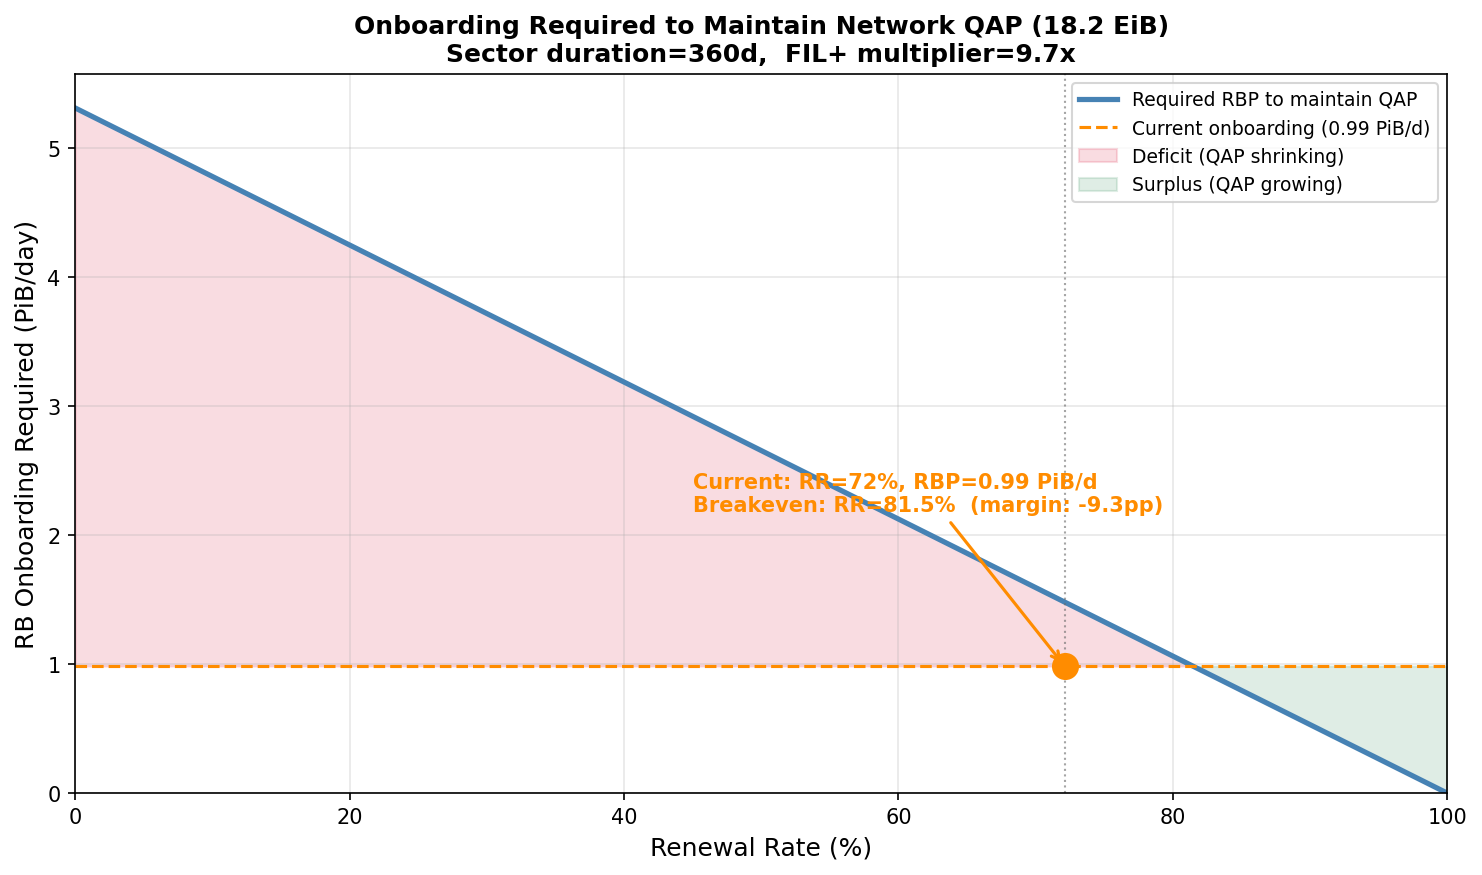
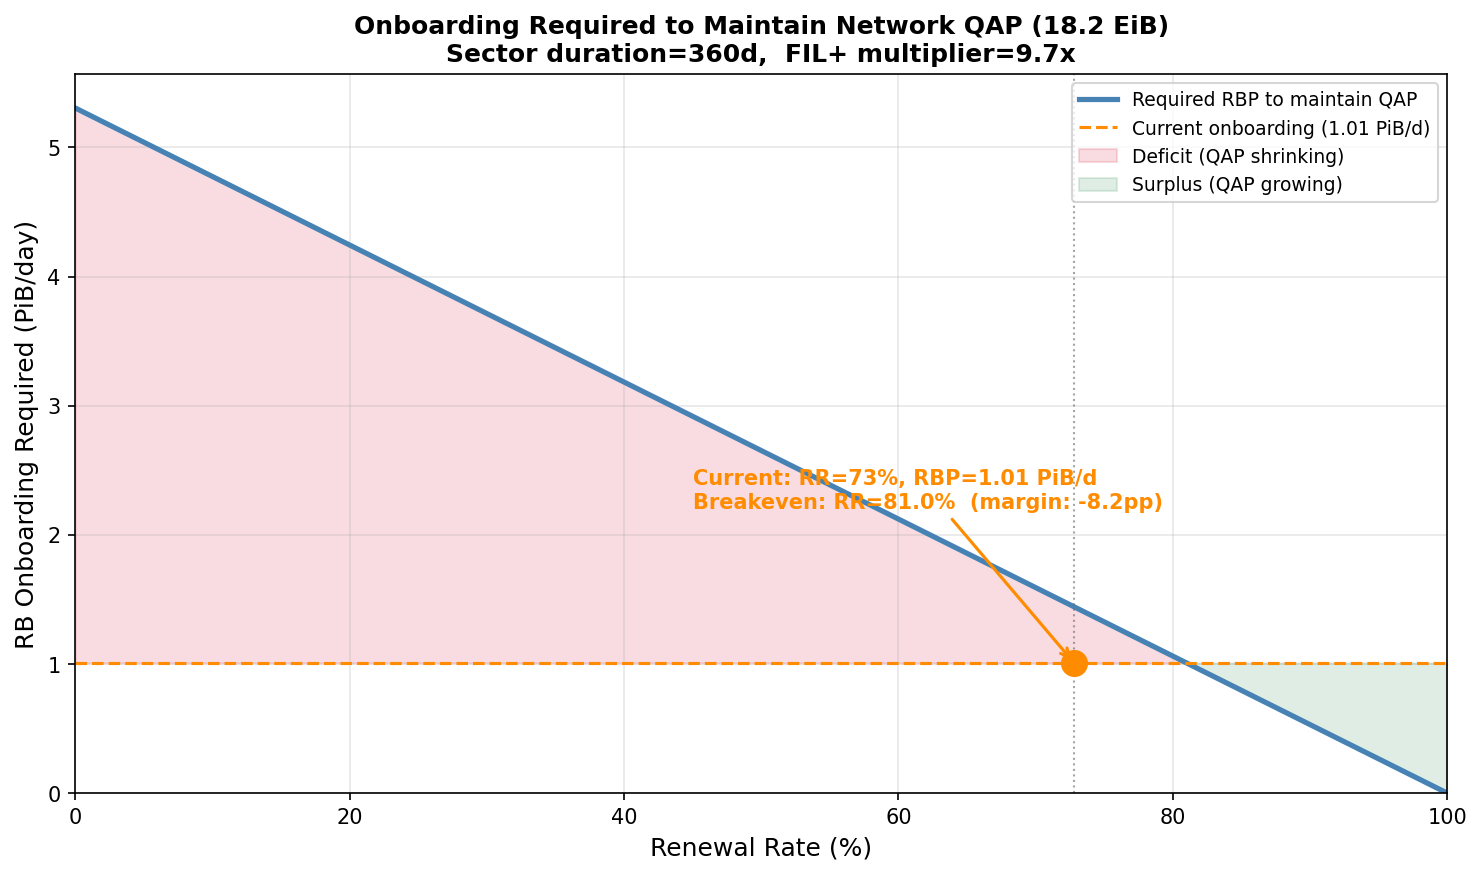
Use declining RR scenarios with concave curves and document optimistic bias
- Status Quo: concave RR decline 73%→55% (mild erosion)
- Decline: concave RR decline 73%→36% (aggressive, front-loaded)
- Both scenarios now show locked FIL declining from forecast start
- Added appendix explanation of renewal uplift math and why flat RR
  contradicts on-chain reality in current network regime
- Updated all report numbers: SQ locked 71.6M, Decline 60.0M at 2Y
- Added takeaway #7: projections are likely still optimistic

diff --git a/locked_test/forecast.py b/locked_test/forecast.py
@@ -124,29 +124,44 @@ fpr_vec = jnp.ones(SIM_FCST) * fpr_val
 # ════════════════════════════════════════════════════════════════════
 # SCENARIOS
 # ════════════════════════════════════════════════════════════════════
-# ── Decline scenario: RBP decays exponentially + RR declines linearly ──
-# Combines declining new entrants with declining renewals
-rbp_decay_rate = 3.0  # 3x reduction per year
-rr_end_frac    = 0.50 # RR drops to 50% of current
+# Both scenarios share declining RBP (observed 3x/yr trend).
+# Both use concave (sqrt) RR decline — front-loaded, marginal SPs exit first.
+# Status Quo = mild RR erosion (to 75%); Decline = aggressive RR erosion (to 50%).
+rbp_decay_rate  = 3.0  # 3x reduction per year (observed historical trend)
+sq_rr_end_frac  = 0.75 # Status Quo: RR declines to 75% of current
+dc_rr_end_frac  = 0.50 # Decline: RR drops to 50% of current
 
 days_fc = jnp.arange(SIM_FCST)
 rbp_decline_pib = rbp_pib_day * (1.0 / rbp_decay_rate) ** (days_fc / 365.0)
-rr_ramp = jnp.linspace(rr_val, rr_val * rr_end_frac, FORECAST_DAYS)
-rr_decline = jnp.concatenate([rr_ramp, jnp.ones(SIM_EXTRA) * rr_ramp[-1]])
+t_norm = jnp.linspace(0, 1, FORECAST_DAYS)
+
+# Status Quo: mild concave decline
+rr_sq = rr_val * (1.0 - (1.0 - sq_rr_end_frac) * jnp.sqrt(t_norm))
+rr_status_quo = jnp.concatenate([rr_sq, jnp.ones(SIM_EXTRA) * rr_sq[-1]])
+
+# Decline: aggressive concave decline
+rr_dc = rr_val * (1.0 - (1.0 - dc_rr_end_frac) * jnp.sqrt(t_norm))
+rr_decline = jnp.concatenate([rr_dc, jnp.ones(SIM_EXTRA) * rr_dc[-1]])
 
 rbp_1y = float(rbp_decline_pib[364])
 rbp_2y = float(rbp_decline_pib[min(729, SIM_FCST-1)])
-print(f"\nDecline scenario:")
-print(f"  RBP: {rbp_pib_day:.2f} -> {rbp_1y:.2f} (1Y) -> {rbp_2y:.2f} (2Y) PiB/d  ({rbp_decay_rate:.0f}x/yr exponential decay)")
-print(f"  RR:  {rr_val*100:.0f}% -> {rr_val*rr_end_frac*100:.0f}% (linear over {FORECAST_DAYS}d)")
+sq_rr_1y = float(rr_sq[364])
+sq_rr_2y = float(rr_sq[-1])
+dc_rr_1y = float(rr_dc[364])
+dc_rr_2y = float(rr_dc[-1])
+print(f"\nShared RBP trajectory ({rbp_decay_rate:.0f}x/yr exponential decay):")
+print(f"  RBP: {rbp_pib_day:.2f} -> {rbp_1y:.2f} (1Y) -> {rbp_2y:.2f} (2Y) PiB/d")
+print(f"\nScenarios:")
+print(f"  Status Quo: RR {rr_val*100:.0f}% -> {sq_rr_1y*100:.0f}% (1Y) -> {sq_rr_2y*100:.0f}% (2Y) [concave, mild]")
+print(f"  Decline:    RR {rr_val*100:.0f}% -> {dc_rr_1y*100:.0f}% (1Y) -> {dc_rr_2y*100:.0f}% (2Y) [concave, aggressive]")
 
 SCENARIOS = [
     {
         "name": "Status Quo",
         "color": "steelblue",
         "linestyle": "--",
-        "rbp_pib": jnp.ones(SIM_FCST) * rbp_pib_day,
-        "rr": jnp.ones(SIM_FCST) * rr_val,
+        "rbp_pib": rbp_decline_pib,
+        "rr": rr_status_quo,
     },
     {
         "name": "Decline",

diff --git a/locked_test/filecoin_supply_forecast.md b/locked_test/filecoin_supply_forecast.md
@@ -13,27 +13,26 @@ header-includes:
 # Executive Summary
 
 This document presents a two-year forward simulation of the Filecoin network
-under two scenarios that vary storage provider (SP) onboarding and renewal
-behavior.
+under two scenarios that reflect the current trajectory of declining storage
+provider (SP) onboarding.
 
-The central finding is that **even holding current conditions flat, locked FIL
-and L/CS decline over the forecast horizon**. The Decline scenario, which
-extrapolates recent trends in onboarding and renewal behavior, projects a more
-significant contraction: locked FIL falls 39% while circulating supply grows
-15%, compressing L/CS from 0.122 to 0.065. **Based on the trajectory of the
-past year, the Decline scenario is the more realistic projection.**
+The central finding is that **locked FIL declines under both scenarios**, with
+the severity depending on whether renewal rates hold steady or deteriorate.
+Circulating supply approaches 1 billion FIL in both cases. **Based on the
+trajectory of the past year, the Decline scenario is the more realistic
+projection.**
 
 \bigskip
 
 | Metric | Current | Status Quo | Decline |
 |:-------|--------:|---------:|--------:|
-| Network Locked (M FIL) | 101.8 | 99.4 | 62.5 |
-| Circulating Supply (M FIL) | 836.6 | 924.5 | 960.0 |
-| Locked / Circ Supply | 0.122 | 0.108 | 0.065 |
-| Pledge per 32 GiB Sector (FIL) | 0.172 | 0.162 | 0.360 |
-| 1Y Forward FoFR (%) | 22.7 | 21.9 | 50.2 |
+| Network Locked (M FIL) | 101.7 | 71.6 | 60.0 |
+| Circulating Supply (M FIL) | 836.9 | 951.2 | 962.1 |
+| Locked / Circ Supply | 0.122 | 0.075 | 0.062 |
+| Pledge per 32 GiB Sector (FIL) | 0.172 | 0.282 | 0.429 |
+| 1Y Forward FoFR (%) | 23.1 | 28.9 | 54.8 |
 
-Table: Forecast summary. "Current" reflects on-chain values as of February 21, 2026. Status Quo and Decline columns show values at the end of the two-year forecast horizon.
+Table: Forecast summary. "Current" reflects on-chain values as of February 22, 2026. Status Quo and Decline columns show values at the end of the two-year forecast horizon.
 
 # Implications and Recommendations
 
@@ -73,32 +72,39 @@ The simulation is initialized with 365 days of on-chain history (February 2025
 
 **Current network parameters (30-day):**
 
-- Raw byte onboarding: 0.99 PiB/day (median)
-- Renewal rate: 72.1% (mean)
+- Raw byte onboarding: 1.01 PiB/day (median)
+- Renewal rate: 72.8% (mean)
 - FIL+ rate: 97.1% (median)
 
-Two scenarios are modeled:
+Both scenarios share the same onboarding trajectory: a 3x per year exponential
+decay, which matches the observed decline over the past 12 months. Both
+scenarios also assume declining renewal rates, reflecting the expectation that
+rising pledge requirements will deter marginal SPs from renewing. The scenarios
+differ in the severity of this renewal rate erosion.
 
-**Status Quo** --- Current onboarding and renewal rates are held flat for the
-duration of the forecast. This represents the optimistic case where current
-conditions do not deteriorate further.
+Both renewal rate curves follow a front-loaded (concave) shape: the decline is
+steepest in the early period, reflecting the expectation that marginal SPs ---
+those most sensitive to rising costs --- exit first, with the rate of decline
+flattening as only committed operators remain.
 
-**Decline** --- New onboarding decays exponentially at 3x per year (falling to
-one-third of its current level after 12 months and one-ninth after 24 months),
-while the renewal rate declines linearly from 72% to 36% over the forecast
-horizon. This scenario extrapolates the declining trends observed over the past
-year in both SP onboarding and renewal behavior. Raw byte onboarding has
-already declined approximately 3x over the past 12 months, and a continued
-deterioration in SP participation would compound through both reduced new
-entrants and increasing non-renewal of existing capacity.
+**Status Quo** --- Onboarding continues its observed decline (3x/yr). The
+renewal rate experiences mild erosion, declining from 73% to 55% over two
+years. This represents the case where current conditions persist: no new growth
+materializes, and rising pledge requirements gradually push out the least
+committed SPs.
+
+**Decline** --- Same onboarding trajectory, but renewal rate erosion is more
+severe, declining from 73% to 36% over two years. This scenario reflects
+accelerating SP attrition as the negative feedback loop between network
+contraction and rising pledge requirements intensifies.
 
 | Parameter | Status Quo | Decline |
 |:----------|:---------|:--------|
-| RB Onboarding | 0.99 PiB/d (flat) | 0.99 → 0.33 (1Y) → 0.11 (2Y) PiB/d |
-| Renewal Rate | 72.1% (flat) | 72% → 36% (linear) |
+| RB Onboarding | 1.01 → 0.34 (1Y) → 0.11 (2Y) PiB/d | Same |
+| Renewal Rate | 73% → 60% (1Y) → 55% (2Y) | 73% → 47% (1Y) → 36% (2Y) |
 | FIL+ Rate | 97.1% (flat) | 97.1% (flat) |
 
-Table: Scenario input parameters.
+Table: Scenario input parameters. Both scenarios share declining onboarding and front-loaded renewal rate curves.
 
 # Forecast Results
 
@@ -109,86 +115,84 @@ transition from historical data (solid gray) to the forecast period
 
 ## Network Power
 
-Under the Status Quo scenario, quality-adjusted power (QAP) declines modestly
-from 18.2 EiB to approximately 16.9 EiB (-7%). At current onboarding rates,
-new capacity does not fully offset sector expiry, so the network slowly
-contracts even with flat inputs. The 9.7x FIL+ multiplier amplifies the effect
-of raw byte changes on QAP, so even modest differences in renewal behavior
-produce significant QAP movements.
+Under the Status Quo scenario, quality-adjusted power (QAP) declines from
+18.2 EiB to approximately 11.8 EiB (-35%). Even with only mild renewal rate
+erosion, the falling rate of new onboarding means the network cannot replace
+expiring capacity fast enough to maintain its current size.
 
-The Decline scenario shows QAP falling to approximately 7.5 EiB (-59%) as both
-onboarding and renewals contract. The exponential decay in new onboarding
-reduces the flow of new capacity, while the declining renewal rate accelerates
-the release of expiring sectors.
+The Decline scenario shows QAP falling to approximately 6.4 EiB (-65%) as
+the front-loaded decline in renewal rate compounds the onboarding shortfall.
+Sectors that would have renewed under flat conditions increasingly exit as
+rising pledge requirements make renewal uneconomic.
 
 ## Locked FIL and Circulating Supply
 
 Locked FIL is the most consequential metric for circulating supply dynamics.
 
-Under the **Status Quo**, locked FIL declines modestly from 101.8M to 99.4M
-(-2%). Circulating supply grows from 837M to 925M (+11%), driven by ongoing
-minting and vesting. The net result is that L/CS declines from 0.122 to 0.108
-(-11%).
+Under the **Status Quo**, locked FIL declines from 101.7M to 71.6M (-30%).
+Circulating supply grows from 837M to 951M (+14%), driven by ongoing minting
+and vesting. L/CS declines from 0.122 to 0.075 (-38%).
 
-Under the **Decline** scenario, the trajectory unfolds in two distinct phases:
+Under the **Decline** scenario, the trajectory is more severe:
 
 | Horizon | QAP | Locked FIL | Circ Supply | L/CS |
 |:--------|----:|-----------:|------------:|-----:|
-| Start | 18.2 EiB | 101.8M | 836.6M | 0.122 |
-| +6 months | -5% | -3% | +6% | -8% |
-| +1 year | -12% | -5% | +9% | -13% |
-| +18 months | -41% | -28% | +12% | -36% |
-| +2 years | -59% | -39% | +15% | -47% |
+| Start | 18.2 EiB | 101.7M | 836.9M | 0.122 |
+| +6 months | -7% | -6% | +6% | -12% |
+| +1 year | -17% | -11% | +9% | -19% |
+| +18 months | -49% | -34% | +13% | -41% |
+| +2 years | -65% | -41% | +15% | -49% |
 
 Table: Decline scenario — cumulative change from forecast start.
 
-- **First year (inertia phase):** Although QAP begins to contract more
-  noticeably (-12%), locked FIL is only down 5%. This reflects the 360-day
-  sector duration: pledge locked by renewing sectors today is not released until
-  those sectors expire a year later. The renewal rate is still above 50% in
-  this period, so a majority of expiring sectors re-lock. L/CS declines 13%,
-  driven by both modest locked FIL contraction and circulating supply growth.
+- **First year (decline begins immediately):** The front-loaded drop in
+  renewal rate means locked FIL begins declining from the start, reaching
+  -11% after one year. The 360-day sector duration still creates some inertia
+  --- QAP contracts 17% while locked FIL trails at -11% --- but the steeper
+  early RR decline ensures there is no false plateau. L/CS declines 19%.
 
-- **Second year (acceleration phase):** The cumulative effect of declining
-  renewals becomes visible as sectors locked in the first year of the forecast
-  begin to expire. With the renewal rate now approaching 36%, roughly two-thirds
-  of expiring sectors release their pledge. Locked FIL drops 39% while
-  circulating supply continues to grow (+15%) as released pledge and ongoing
-  minting add to circulation. L/CS falls 47%, compounded by both the declining
-  numerator and growing denominator.
+- **Second year (acceleration phase):** Sectors locked during the transition
+  begin to expire. With the renewal rate now approaching 36%, roughly
+  two-thirds of expiring sectors release their pledge. Locked FIL drops 41%
+  while circulating supply continues to grow (+15%). L/CS falls 49%,
+  compounded by both the declining numerator and growing denominator.
 
 ## SP Economics
 
 Pledge per sector exhibits an inverse relationship with network size under
-attrition. As QAP contracts in the Decline scenario, the consensus pledge
-component --- which scales with the ratio of sector size to total network power
---- increases from 0.17 to 0.36 FIL per 32 GiB sector, a 109% increase in
-collateral requirements despite a shrinking network.
+attrition. As QAP contracts, the consensus pledge component --- which scales
+with the ratio of sector size to total network power --- increases. Under
+Status Quo, pledge rises from 0.17 to 0.28 FIL per 32 GiB sector (+64%);
+under Decline, it reaches 0.43 FIL (+150%). This creates a negative feedback
+loop: rising pledge deters renewals, which shrinks the network, which raises
+pledge further.
 
-The 1-year forward rate of return (FoFR) rises in the Decline scenario to
-approximately 50%, up from 23%. This is mechanical: fewer sectors compete for
-block rewards that decline more slowly than network power. This elevated return
-represents the equilibrium incentive for remaining providers but may be
-insufficient to attract new entrants if accompanied by adverse token price
-dynamics.
+The 1-year forward rate of return (FoFR) rises to approximately 29% under
+Status Quo and 55% under Decline, up from 23%. This is mechanical: fewer
+sectors compete for block rewards that decline more slowly than network power.
+This elevated return represents the equilibrium incentive for remaining
+providers but may be insufficient to attract new entrants if accompanied by
+adverse token price dynamics.
 
 # Key Takeaways
 
-1. **Even at flat conditions, the network is slowly contracting.** At current
-   onboarding and renewal rates, locked FIL declines 2% and L/CS falls from
-   0.122 to 0.108 over two years. The Status Quo scenario is not a growth
-   scenario --- it is a slow-erosion scenario.
+1. **Locked FIL declines under both scenarios.** Under Status Quo with mild
+   renewal rate erosion, locked FIL falls 30% over two years. Under
+   accelerating attrition, the decline reaches 41%. There is no stability
+   scenario --- both paths lead to contraction.
 
 2. **The Decline scenario is the more realistic projection.** Raw byte
-   onboarding has already declined ~3x over the past year. The Decline scenario
-   extrapolates this trend and projects locked FIL falling 39% and L/CS
-   compressing to 0.065 over two years.
+   onboarding has already declined ~3x over the past year, and rising pledge
+   requirements create a negative feedback loop that is likely to erode
+   renewal rates. The Decline scenario projects L/CS compressing from 0.122
+   to 0.062 over two years.
 
 3. **Locked FIL has significant inertia.** The 360-day sector duration creates
-   a lag between declining conditions and their effect on locked FIL. In the
-   Decline scenario, locked FIL is only down 5% after one year despite QAP
-   already contracting 12%. The full impact materializes in the second year as
-   sectors locked during the transition begin to expire without renewal.
+   a lag between declining conditions and their effect on locked FIL. Even in
+   the Decline scenario, locked FIL is down only 11% after one year despite
+   QAP already contracting 17%. The full impact materializes in the second
+   year as sectors locked during the transition begin to expire without
+   renewal.
 
 4. **Both onboarding and renewal rate drive the decline, but renewals dominate
    the flow.** The daily volume of power flowing through renewals (expiring
@@ -197,21 +201,32 @@ dynamics.
    locked FIL relative to changes in new onboarding.
 
 5. **Attrition is self-reinforcing in pledge terms.** As the network shrinks,
-   pledge per sector rises (+109% in the Decline scenario), which may further
-   discourage participation. FoFR also rises as a partial offset, but the net
-   effect on SP decision-making depends on token price dynamics not modeled here.
+   pledge per sector rises (+64% under Status Quo, +150% under Decline), which
+   may further discourage participation. FoFR also rises as a partial offset,
+   but the net effect on SP decision-making depends on token price dynamics
+   not modeled here.
 
-6. **Circulating supply is bounded.** Even under the Decline scenario,
-   circulating supply increases by only ~15% over two years (837M to 960M FIL).
-   The supply trajectory is dominated by vesting and minting schedules, with
-   pledge dynamics providing a secondary modulating effect.
+6. **Circulating supply is bounded but approaching 1B FIL.** Under both
+   scenarios, circulating supply grows to 950--962M FIL over two years.
+   Both scenarios approach the 1 billion FIL threshold, a level with no
+   protocol mechanism for reversal.
+
+7. **These projections are likely still optimistic.** The model's renewal
+   mechanism recalculates pledge at current conditions and retains the higher
+   of original and recalculated pledge. In practice, SPs facing substantially
+   higher pledge requirements may choose not to renew --- a behavioral response
+   the model does not capture. The on-chain locked FIL decline rate is
+   currently steeper than even the Decline scenario projects for its first 90
+   days, suggesting the true trajectory may be worse than modeled here.
 
 # Appendix: Model Notes
 
 - **Data source:** Spacescope API (on-chain supply and power statistics)
 - **History window:** 365 days (Feb 2025 -- Feb 2026)
 - **Forecast horizon:** 730 days (Feb 2026 -- Feb 2028)
-- **Renewal rate:** 30-day mean (72.1%). The mean is used rather than the
+- **Onboarding trajectory:** 3x/yr exponential decay, matching the observed
+  historical decline in raw byte onboarding over the past 12 months.
+- **Renewal rate:** 30-day mean (72.8%). The mean is used rather than the
   median (82.1%) because locked FIL is a cumulative stock: total pledge
   retained = $\sum_i \text{RR}_i \times \text{scheduled\_expiration}_i \approx
   \overline{\text{RR}} \times \sum_i \text{scheduled\_expiration}_i$.
@@ -222,7 +237,36 @@ dynamics.
 - **Initialization:** Pledge/reward split estimated from 180-day linear
   vesting integral of on-chain minting data (4.5% reward-locked, 95.5%
   pledge-locked).
-- **Reward vesting approximation:** The model uses a balance/180 decay for
-  reward release rather than per-cohort linear vesting. This introduces
-  approximately 2--3M FIL of drift over the historical window, which is
-  acceptable for forecasting purposes.
+- **Renewal rate curve shape:** Both scenarios use front-loaded (concave)
+  renewal rate curves rather than linear ramps. This reflects the expectation
+  that marginal SPs --- those most sensitive to rising costs --- exit first,
+  producing a steeper initial decline that flattens as only committed
+  operators remain.
+- **Why declining renewal rates rather than flat?** Previous forecasts held
+  renewal rate constant at the observed 30-day mean or median. This was
+  appropriate when the network was growing or stable, but Filecoin is now in a
+  fundamentally different regime: onboarding is in sustained decline, pledge
+  per sector is rising, and block rewards at current FIL prices are unlikely to
+  cover operating expenses for many SPs. In this environment, extending a flat
+  historical renewal rate produces trajectories that contradict on-chain
+  reality. The declining renewal rate curves used here reflect the expectation
+  that SPs will increasingly choose not to renew as the economics deteriorate.
+- **Known model bias (optimistic):** The model's renewal mechanism
+  recalculates pledge at current conditions and takes the maximum of original
+  and recalculated pledge (matching protocol behavior). This creates a
+  mechanical effect where renewed sectors lock *more* FIL than they originally
+  did. For example, with 374k FIL/day in scheduled pledge expirations and a
+  73% renewal rate: the 27% that don't renew release \textasciitilde101k
+  FIL/day, but the 73% that do renew have their pledge recalculated upward by
+  \textasciitilde37% (reflecting the increase in pledge per sector over the
+  past year), adding \textasciitilde101k FIL/day in uplift --- nearly
+  offsetting the entire expiration loss. New onboarding then pushes the net
+  flow positive. In practice, the rising pledge is itself what deters renewals
+  --- SPs who face substantially higher collateral requirements may simply
+  choose to exit rather than pay. The model cannot capture this feedback: it
+  applies the renewal rate *independently* of the pledge increase. The
+  declining renewal rate curves used in our scenarios are our way of
+  approximating this behavioral response exogenously. Even so, the on-chain
+  locked FIL decline rate (-145k to -170k FIL/day) remains steeper than the
+  model's Decline scenario first-90-day slope (-62k FIL/day). These
+  projections should therefore be interpreted as an optimistic bound.